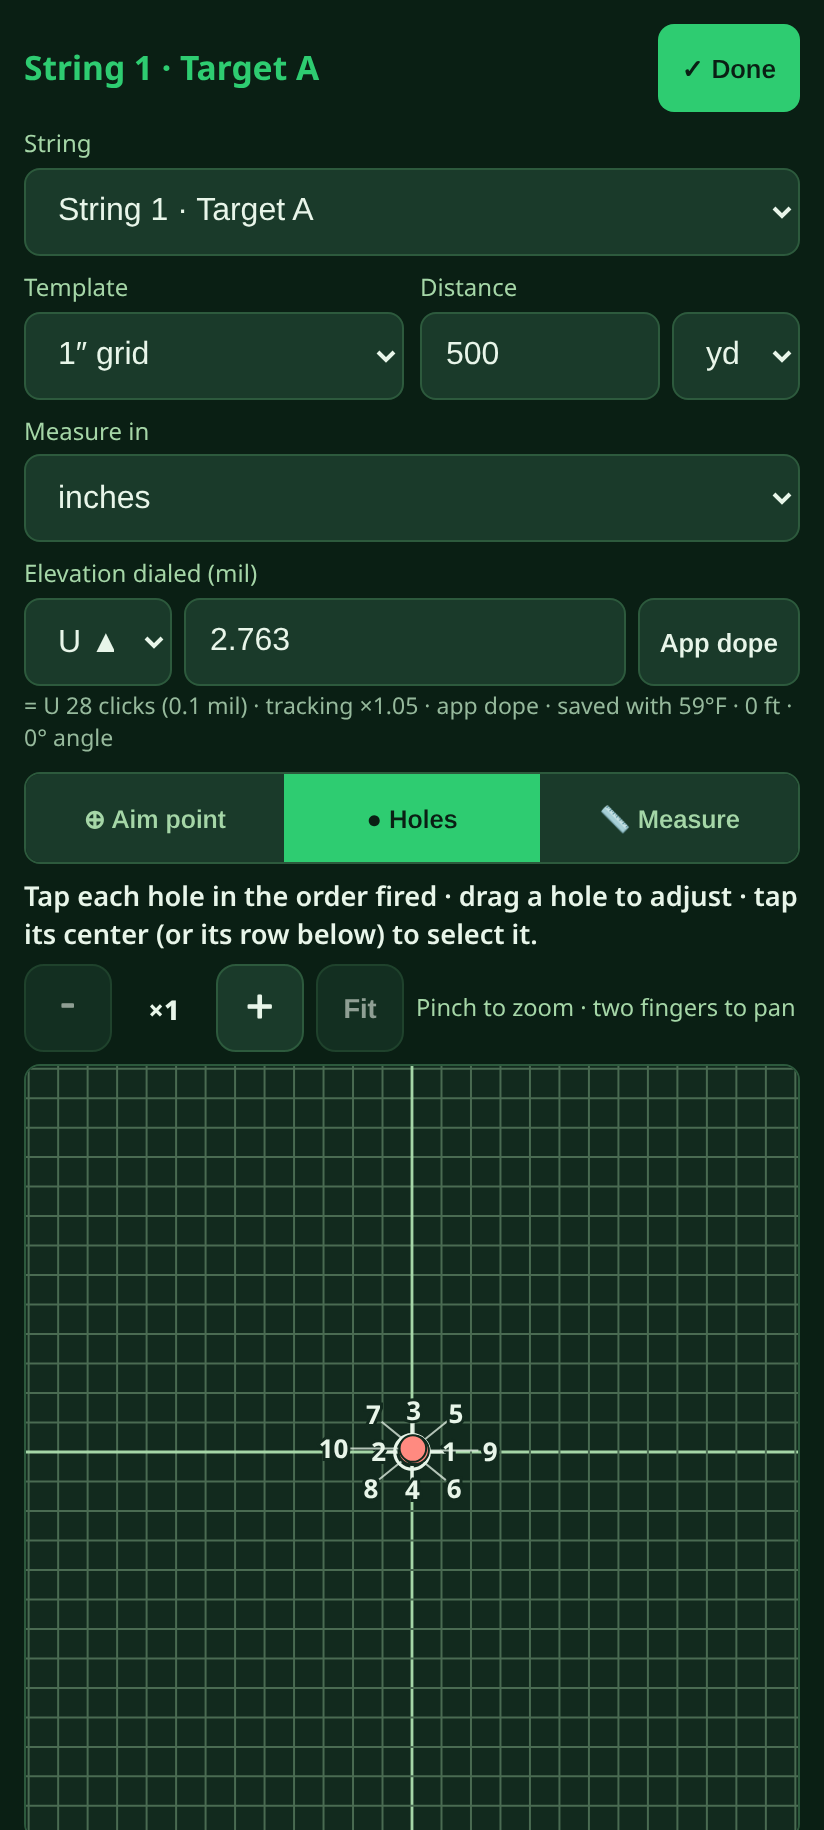
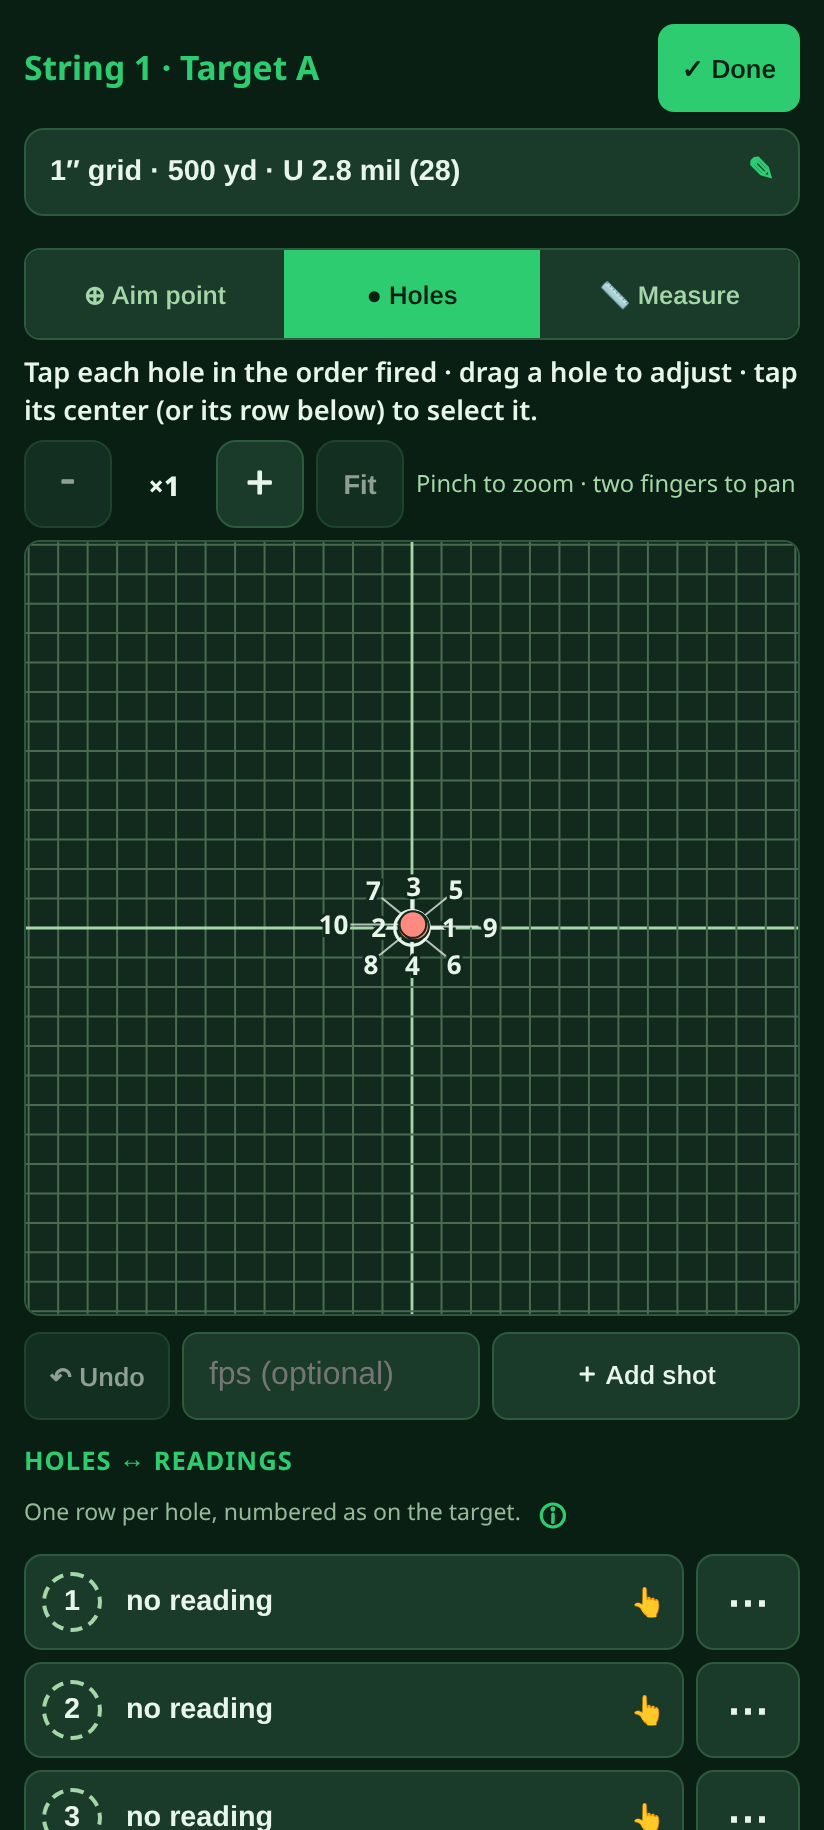
Beta: collapsible target setup summary; elevation dialed saved and shown in whole turret clicks

Changed region(s): [[0.0303, 0.0623, 0.9709, 1.0]]

diff --git a/beta.html b/beta.html
@@ -366,6 +366,9 @@ svg.mk { width: 14px; height: 14px; flex: 0 0 14px; vertical-align: -2px; margin
 svg.tgS, #tgSvg { width: 100%; aspect-ratio: 1; display: block; border: 1px solid var(--border); border-radius: 8px; background: var(--card); }
 #tgEd { z-index: 31; } #tgEd > *, #slEditor > #slStrBar, #slEditor > #slTgView, #slEditor > #sbDock { flex-shrink: 0; }
 #tgEd .tgSet { display: grid; grid-template-columns: 1fr 1fr; gap: 8px; } #tgEd .tgSet .full { grid-column: 1 / -1; }
+#tgSum { display: flex; align-items: center; gap: 8px; width: 100%; min-height: 44px; margin: 0 0 8px; padding: 8px 12px; text-align: left; font-size: 0.9rem; font-weight: 700; line-height: 1.3; background: var(--input); color: var(--text); border: 1px solid var(--border); border-radius: 10px; }
+#tgSum .t { flex: 1 1 auto; min-width: 0; overflow-wrap: anywhere; } #tgSum .i { flex: 0 0 auto; color: var(--accent); font-size: 1rem; }
+#tgEd.setc .tgSet, #tgEd.meas #tgSum { display: none; }
 #tgEd .dd { display: flex; gap: 6px; } #tgEd .dd input { flex: 1 1 auto; min-width: 0; } #tgEd .dd select { flex: 0 0 64px; width: 64px; }
 #tgEd .seg { display: flex; width: 100%; margin-top: 8px; } #tgEd .seg button { flex: 1; }
 #tgTip { margin: 6px 0; font-weight: 600; color: var(--text); font-size: 0.85rem; min-height: 1.2em; }
@@ -951,7 +954,8 @@ label .ro { color: var(--muted); font-weight: 600; font-size: 0.78rem; margin-le
 </div>
 <div id="tgEd" class="ovl" role="dialog" aria-modal="true" aria-label="Target">
   <h3><span id="tgEdT">Target</span><button class="sm" type="button" id="tgEdDone">✓ Done</button></h3>
-  <div class="tgSet">
+  <button type="button" id="tgSum" aria-expanded="false" aria-controls="tgSetBox"></button>
+  <div class="tgSet" id="tgSetBox">
     <div class="full"><label for="tgStrSel">String</label><select id="tgStrSel"></select></div>
     <div><label for="tgTpl">Template</label><select id="tgTpl"><option value="grid1">1″ grid</option><option value="moa">MOA grid</option><option value="mil">MIL grid</option><option value="bull">Bullseye</option><option value="steel">Steel plate</option></select></div>
     <div><label for="tgDist">Distance</label><div class="dd"><input type="number" inputmode="decimal" id="tgDist" min="5" max="3000"><select id="tgDu" aria-label="Distance unit"><option value="yd">yd</option><option value="m">m</option></select></div></div>
@@ -3305,8 +3309,8 @@ async function tgDope(yd) {   // the dope the app shows now (conditions + shot a
     if (look) sv.shot.lookAngle = B.UNew.Degree(look);
     const r = await sv.calc.fire({ shot: sv.shot, trajectoryRange: B.UNew.Yard(yd * cosA), trajectoryStep: B.UNew.Yard(yd * cosA), raiseRangeError: false });
     const p = r.samples[r.samples.length - 1]; if (!p || Math.abs(p.distance.In(B.Distance.Yard) - yd * cosA) > 1) return null;
-    const a = angs(p), ts = turretSpec(), c = curCond();
-    return cleanDial({ e: a.e, u: S.ang, c: a.ec, cl: ts.lbl, k: ts.k || 1, src: "app", wx: { temp: c.temp, hum: c.hum, alt: c.alt, press: c.press, tp: powderT(), look, yd }, at: Date.now() });
+    const a = angs(p), ts = turretSpec(), c = curCond(), e = Math.round(a.ec * ts.v * 1e6) / 1e6;   // whole clicks × click size, in the turret's unit
+    return cleanDial({ e, u: ts.u, c: a.ec, cl: ts.lbl, k: ts.k || 1, src: "app", wx: { temp: c.temp, hum: c.hum, alt: c.alt, press: c.press, tp: powderT(), look, yd }, at: Date.now() });
   } catch { return null; }
 }
 function tgWxSnap(yd) { const c = curCond(); return { temp: c.temp, hum: c.hum, alt: c.alt, press: c.press, tp: powderT(), look: num("shotAngle") || 0, yd }; }
@@ -3323,24 +3327,32 @@ async function tgRedope(g) {   // distance changed: an unedited app-dope dial fo
   let n = 0; sess.tg.strings.forEach(st => { if (st.tid === g.id && st.dial && st.dial.src === "app") { st.dial = { ...d }; n++; } });
   if (n) { tgAfterEditQuiet(); if (TE) teRender(); }
 }
-function dialTxt(d, U) {   // "U 1.20 mil"
-  const v = angConv(d.e, d.u, U); return `${v >= 0 ? "U" : "D"} ${Math.abs(v).toFixed(2)} ${angU(U)}`;
+function dialDec(v) { return Math.abs(v * 10 - Math.round(v * 10)) < 1e-9 ? 1 : 2; }   // 0.1 mil / ½ MOA → 1 decimal; ¼ MOA, 0.05 mil, ⅛ MOA → 2 (never thousandths)
+function dialView(d, ts) {   // the dial as read on the turret: app dope (incl. older raw ones) at whole clicks; an edited value as typed (≤2 decimals)
+  ts = ts || (ED ? tsFor(ED.rifleId) : turretSpec()); const u = ts.u, raw = angConv(d.e, d.u, u);
+  let v, s, c;
+  if (d.src === "app") { c = Math.round(raw / ts.v); v = c * ts.v; s = Math.abs(v).toFixed(dialDec(ts.v)); }
+  else { v = raw; s = String(+Math.abs(v).toFixed(2)); c = d.u === u && d.c != null ? d.c : Math.round(raw / ts.v); }
+  const dir = v < 0 || (v === 0 && raw < 0) ? "D" : "U";
+  return { v, s, c, dir, u, txt: `${dir} ${s} ${angU(u)}` };
 }
+function dialTxt(d) { return dialView(d).txt; }   // "U 11.00 MOA" / "U 2.8 mil"
 function teDialPaint() {
-  const st = teStr(), d = st.dial, U = S.ang, ts = tsFor(ED.rifleId);
-  $("tgDialU").textContent = angU(U);
-  if (document.activeElement !== $("tgDialV")) setVal("tgDialV", d ? +Math.abs(angConv(d.e, d.u, U)).toFixed(3) : "");
-  $("tgDialD").value = d && angConv(d.e, d.u, U) < 0 ? "D" : "U";
+  const st = teStr(), d = st.dial, ts = tsFor(ED.rifleId), U = ts.u, dv = d && dialView(d, ts);
+  $("tgDialU").textContent = angU(U); $("tgDialV").step = String(ts.v);
+  if (document.activeElement !== $("tgDialV")) setVal("tgDialV", dv ? dv.s : "");
+  $("tgDialD").value = dv ? dv.dir : "U";
   const w = d && d.wx, wx = w ? [w.temp != null ? `${fmt(w.temp, 0)}°F` : "", w.alt != null ? `${fmt(w.alt, 0)} ft` : "", w.press != null ? `${fmt(w.press, 2)} inHg` : "", `${fmt(w.look || 0, 0)}° angle`].filter(Boolean).join(" · ") : "";
-  $("tgDialH").innerHTML = d ? `= ${d.c != null ? `${d.c >= 0 ? "U" : "D"} ${Math.abs(d.c)} clicks (${escapeHtml(d.cl || ts.lbl)})` : ""}${d.k && d.k !== 1 ? ` · tracking ×${fmt(d.k, 3)}` : ""} · ${d.src === "app" ? "app dope" : "edited"}${wx ? ` · saved with ${wx}` : ""}`
+  $("tgDialH").innerHTML = d ? `= ${dv.dir} ${Math.abs(dv.c)} clicks (${escapeHtml(ts.lbl)})${d.k && d.k !== 1 ? ` · tracking ×${fmt(d.k, 3)}` : ""} · ${d.src === "app" ? "app dope, whole clicks" : "edited"}${wx ? ` · saved with ${wx}` : ""}`
     : `Not saved — enter what you dialed${tgSame() ? " or tap App dope" : ""}. Truing then falls back to today's prediction.`;
 }
 async function teDialSet(raw, dir) {
   const st = teStr(); if (!st) return; const v = parseFloat(raw);
   if (raw === "" || raw == null) { if (st.dial) { teSnap(); delete st.dial; tgAfterEditQuiet(); } teRender(); return; }
   if (!(v >= 0 && v <= 300)) { toast("Elevation 0–300"); teDialPaint(); return; }
-  const U = S.ang, ts = tsFor(ED.rifleId), e = dir === "D" ? -v : v, eT = angConv(e, U, ts.u), old = st.dial;
-  teSnap(); st.dial = cleanDial({ e, u: U, c: Math.round(eT / ts.v), cl: ts.lbl, k: old && old.k || ts.k || 1, src: old && old.src === "app" && Math.abs(angConv(old.e, old.u, U) - e) < 1e-6 ? "app" : "user",
+  const ts = tsFor(ED.rifleId), U = ts.u, e = dir === "D" ? -v : v, old = st.dial, ov = old && dialView(old, ts);
+  if (ov && +ov.s === v && ov.dir === dir) { teDialPaint(); return; }   // unchanged (an app dial shown at clicks keeps its stored value)
+  teSnap(); st.dial = cleanDial({ e, u: U, c: Math.round(e / ts.v), cl: ts.lbl, k: old && old.k || ts.k || 1, src: "user",
     wx: old && old.wx || tgWxSnap(tgYd(teTgt())), at: old && old.at || Date.now() });
   tgAfterEditQuiet(); teRender();
 }
@@ -3349,8 +3361,19 @@ $("tgDialD").onchange = () => teDialSet($("tgDialV").value.trim(), $("tgDialD").
 $("tgDialApp").onclick = async () => {
   if (!TE) return; const st = teStr(), d = await tgDope(tgYd(teTgt()));
   if (!d) { toast(tgSame() ? "No dope at that distance — check the inputs on the Dope tab" : "Pick this session's gun + load on Gear to use its dope"); return; }
-  teSnap(); st.dial = d; tgAfterEditQuiet(); teRender(); toast(`Dial set to the app's dope: ${dialTxt(d, S.ang)}`);
+  teSnap(); st.dial = d; tgAfterEditQuiet(); teRender(); toast(`Dial set to the app's dope: ${dialTxt(d)} (${Math.abs(d.c)} clicks)`);
 };
+
+function teSumPaint() {   // one tappable line for String/Template/Distance/Measure in/Elevation dialed
+  const st = teStr(), g = teTgt(), d = st.dial, o = $("tgTpl").querySelector(`option[value="${g.tpl}"]`), dv = d && dialView(d);
+  const parts = [o ? o.textContent : g.tpl, g.dist > 0 ? `${fmt(g.dist, 0)} ${g.du}` : "distance?"]; if (g.u === "cm") parts.push("cm");
+  parts.push(dv ? `${dv.dir} ${dv.s} ${angU(dv.u)} (${Math.abs(dv.c)})` : "dial?");
+  const open = !!TE.setOpen, b = $("tgSum");
+  b.innerHTML = `<span class="t">${escapeHtml(parts.join(" · "))}</span><span class="i" aria-hidden="true">${open ? "▴" : "✎"}</span>`;
+  b.setAttribute("aria-expanded", String(open)); b.setAttribute("aria-label", `Setup: ${parts.join(", ")}. ${open ? "Tap to collapse" : "Tap to edit"}`);
+  $("tgEd").classList.toggle("setc", !open);
+}
+$("tgSum").onclick = () => { if (!TE) return; TE.setOpen = !TE.setOpen; teSumPaint(); if (TE.setOpen) $("tgStrSel").focus({ preventScroll: true }); };
 
 /* ---- target editor ---- */
 function teStr() { return ED && ED.tg && ED.tg.strings.find(s => s.id === TE.str); }
@@ -3365,12 +3388,15 @@ function openTgEd(strId, opts = {}) {
   if (!ED) return; const t = tgEnsure(ED); if (!t.strings.some(s => s.id === strId)) strId = t.cur;
   banHide();   // the editor is now the focus; the banner would sit over its buttons
   const st = t.strings.find(s => s.id === strId);
-  TE = { str: strId, mode: st.aim ? "hole" : "aim", sel: null, undo: [], drag: null, span: null, pairNext: opts.pairNext || null, m: null };
-  const g = t.targets.find(q => q.id === st.tid); if (!(g.dist > 0)) g.dist = tgDefDist();
+  const g = t.targets.find(q => q.id === st.tid), fresh = !t.strings.some(s => s.tid === g.id && (s.aim || s.holes.length || s.dial));
+  const willDial = !st.dial && !st.holes.length && tgRecent(ED) && tgSame();   // the app's dope fills it in a moment
+  TE = { str: strId, mode: st.aim ? "hole" : "aim", sel: null, undo: [], drag: null, span: null, pairNext: opts.pairNext || null, m: null,
+    setOpen: fresh && !(g.dist > 0 || tgDefDist() > 0) || fresh && !st.dial && !willDial, fresh };   // collapsed unless a new target is missing something
+  if (!(g.dist > 0)) g.dist = tgDefDist();
   $("tgEd").classList.add("show"); $("tgEd").scrollTop = 0; $("tgUndo").disabled = true;
   if (BAN.sid === ED.id) banPaint();
   teRender();
-  if (!st.holes.length && !st.dial && tgRecent(ED)) tgAutoDial(ED, st);   // first marked: default to the dope at this moment
+  if (!st.holes.length && !st.dial && tgRecent(ED)) tgAutoDial(ED, st).then(() => { if (TE && TE.fresh && teStr() === st && !st.dial && !TE.setOpen) { TE.setOpen = true; teRender(); } });   // first marked: default to the dope at this moment (no dope → open the setup)
 }
 async function closeTgEd() {
   if (!TE) return; if (TE.mode === "meas") teMeasCommit();
@@ -3405,7 +3431,7 @@ function teRender() {
   $("tgEdT").textContent = `String ${n} · Target ${tgtLetter(t, g.id)}`;
   $("tgTpl").value = g.tpl; setVal("tgDist", g.dist ?? ""); $("tgDu").value = g.du; $("tgU").value = g.u;
   $("tgStrSel").innerHTML = t.strings.map((s, i) => `<option value="${escapeHtml(s.id)}">String ${i + 1} · Target ${tgtLetter(t, s.tid)}</option>`).join(""); $("tgStrSel").value = st.id;
-  $("tgEd").classList.toggle("meas", TE.mode === "meas");
+  $("tgEd").classList.toggle("meas", TE.mode === "meas"); teSumPaint();
   $("tgMode").querySelectorAll("button").forEach(b => { const on = b.dataset.v === TE.mode; b.classList.toggle("on", on); b.setAttribute("aria-pressed", String(on)); });
   const rd = readings(ED, st.id), pn = TE.pairNext && rd.findIndex(x => x.id === TE.pairNext) + 1;
   $("tgTip").textContent = TE.mode === "aim" ? `Tap the aim point for String ${n} (drag to adjust).`
@@ -3593,7 +3619,7 @@ function teResults() {
     h += `<div class="zc" id="tgZero"><b>Zero correction</b> (${fmt(zr, 0)} yd zero, ${ts.lbl} clicks${k !== 1 ? `, tracking ×${fmt(k, 3)}` : ""}): ${ce ? `${e1 >= 0 ? "U" : "D"} ${ce}` : "elevation OK"} · ${cw ? `${w1 >= 0 ? "R" : "L"} ${cw}` : "windage OK"}<small>Dial these to move the group onto the aim point${gs.n < 3 ? " — 3+ shots give a steadier center" : ""}.</small></div>`;
   } else if (gs.n > 1) {
     const vU = S.ang, need = -gs.cy / inPerU(vU, yd), d = st.dial;
-    h += `<label class="tgl" for="tgAtDist"><span>Fired at ${fmt(g.dist, 0)} ${g.du} with ${d ? `${dialTxt(d, vU)} dialed` : "the app's dope dialed"}<small>${d ? "The dial saved with this string (edit it above)." : "No dial saved with this string — Truing uses today's prediction, weather and angle."}</small></span><input type="checkbox" id="tgAtDist" role="switch"${TE.atDist ? " checked" : ""}></label>`;
+    h += `<label class="tgl" for="tgAtDist"><span>Fired at ${fmt(g.dist, 0)} ${g.du} with ${d ? `${dialTxt(d)} dialed` : "the app's dope dialed"}<small>${d ? "The dial saved with this string (edit it above)." : "No dial saved with this string — Truing uses today's prediction, weather and angle."}</small></span><input type="checkbox" id="tgAtDist" role="switch"${TE.atDist ? " checked" : ""}></label>`;
     h += `<button type="button" id="tgTrue"${TE.atDist && same ? "" : " disabled"}>🎯 Send vertical to Truing (${gs.cy >= 0 ? "group high" : "group low"} ${lenTxt(Math.abs(gs.cy), u)} = ${need >= 0 ? "U" : "D"} ${Math.abs(need).toFixed(2)} ${angU(vU)})</button>`;
     h += `<div class="hint">${d ? `Sends dialed − offset (the elevation that would have centered the group) with this string's saved conditions and angle. ` : `<b>No dial saved for this string</b> — falls back to today's prediction, weather and angle. `}Only the vertical offset is sent. Horizontal (${gs.cx >= 0 ? "R" : "L"} ${lenTxt(Math.abs(gs.cx), u)}) is never sent — it's mostly wind.${same ? "" : " <b>Pick this session's gun + load on Gear to send it.</b>"}</div>`;
   }
@@ -3616,7 +3642,7 @@ async function tgSendTrue() {
     setVal("trObs", obs.toFixed(2));
     const cTxt = TR.cond ? [w.temp != null ? `${fmt(w.temp, 0)}°F` : "", w.alt != null ? `${fmt(w.alt, 0)} ft` : "", w.press != null ? `${fmt(w.press, 2)} inHg` : "", w.tp != null ? `powder ${fmt(w.tp, 0)}°F` : ""].filter(Boolean).join(" · ") : "";
     if (TR.cond) $("trFor").textContent += ` · using the string's conditions: ${cTxt}`;
-    $("trOut").innerHTML = `From the target: dialed ${dialTxt(d, U)}${d.k && d.k !== 1 ? ` (×${fmt(d.k, 3)} tracking = ${dialT.toFixed(2)} ${angU(U)})` : ""}, group ${gs.cy >= 0 ? "high" : "low"} ${lenTxt(Math.abs(gs.cy), "in")} (${Math.abs(corr).toFixed(2)} ${angU(U)}) at ${yd} yd → <b>${obs.toFixed(2)} ${angU(U)}</b> would have centered it. ${TR.cond ? `Solved with String ${sn}'s saved conditions (${cTxt}) and ${fmt(look, 0)}° angle.` : `No conditions saved with the string — today's weather is used, ${fmt(look, 0)}° angle.`} Vertical only (horizontal is mostly wind). Tap Solve.`;
+    $("trOut").innerHTML = `From the target: dialed ${dialTxt(d)}${d.k && d.k !== 1 ? ` (×${fmt(d.k, 3)} tracking = ${dialT.toFixed(2)} ${angU(U)})` : ""}, group ${gs.cy >= 0 ? "high" : "low"} ${lenTxt(Math.abs(gs.cy), "in")} (${Math.abs(corr).toFixed(2)} ${angU(U)}) at ${yd} yd → <b>${obs.toFixed(2)} ${angU(U)}</b> would have centered it. ${TR.cond ? `Solved with String ${sn}'s saved conditions (${cTxt}) and ${fmt(look, 0)}° angle.` : `No conditions saved with the string — today's weather is used, ${fmt(look, 0)}° angle.`} Vertical only (horizontal is mostly wind). Tap Solve.`;
   } else {   // old strings: today's prediction (current behavior)
     TR.look = 0; setVal("trAngle", 0); TR.cond = null;
     const pred = await predAt(yd, {}); if (!pred) { $("trOut").innerHTML = `<span class="bad">${yd} yd is beyond this bullet's reach.</span>`; return; }
